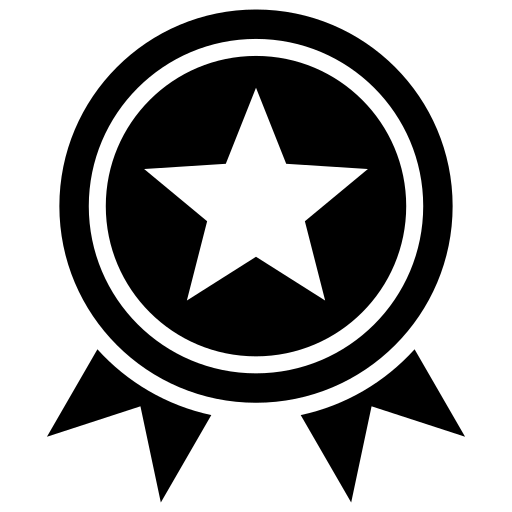
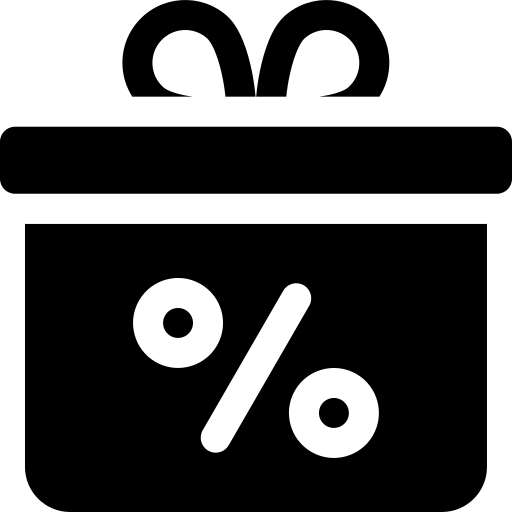
added offer

diff --git a/Src/Screens/CustomerTabs/Home/HomeScreenPage.tsx b/Src/Screens/CustomerTabs/Home/HomeScreenPage.tsx
@@ -3387,11 +3387,11 @@ const styles =
     },
 
     sectionTitle: {
-      fontSize: 21,
+      fontSize: 16,
       color:
         COLORS.black,
       fontWeight:
-        '700',
+        '600',
       letterSpacing:
         -0.4,
     },
@@ -3458,7 +3458,7 @@ const styles =
     resultsHeader: {
       marginHorizontal:
         SPACING.xl,
-      marginTop: 24,
+      marginTop: 4,
       marginBottom: 14,
       flexDirection:
         'row',
@@ -3473,11 +3473,11 @@ const styles =
     },
 
     resultsTitle: {
-      fontSize: 21,
+      fontSize: 16,
       color:
         COLORS.black,
       fontWeight:
-        '700',
+        '600',
       letterSpacing:
         -0.3,
     },

diff --git a/Src/Navigation/TabBar.web.tsx b/Src/Navigation/TabBar.web.tsx
@@ -25,16 +25,16 @@ const tabIconsActive: Record<TabIconKeys, any> = {
     Clavata: images?.homeActive,
     Home: images?.homeActive,
     Bookings: images?.homeActive,
-    Offers: images?.categoryActive,
-    Profile: images?.stakeActive,
+    Offers: images?.offerActive,
+    Profile: images?.profileActive,
 };
 
 const tabIcons: Record<TabIconKeys, any> = {
     Clavata: images?.home,
     Home: images?.wallet,
-    Bookings: images?.shop,
-    Offers: images?.category,
-    Profile: images?.homeActive,
+    Bookings: images?.booking,
+    Offers: images?.offer,
+    Profile: images?.profile,
 };
 
 // ============================================================

diff --git a/Src/Screens/CustomerTabs/Home/HomeHeader.tsx b/Src/Screens/CustomerTabs/Home/HomeHeader.tsx
@@ -196,22 +196,16 @@ const styles = StyleSheet.create({
 
 
   title: {
-
     fontSize:
       18,
-
     lineHeight:
       32,
-
     fontWeight:
       '600',
-
     color:
       COLORS.black,
-
     letterSpacing:
       -0.6,
-
   },
 
 
